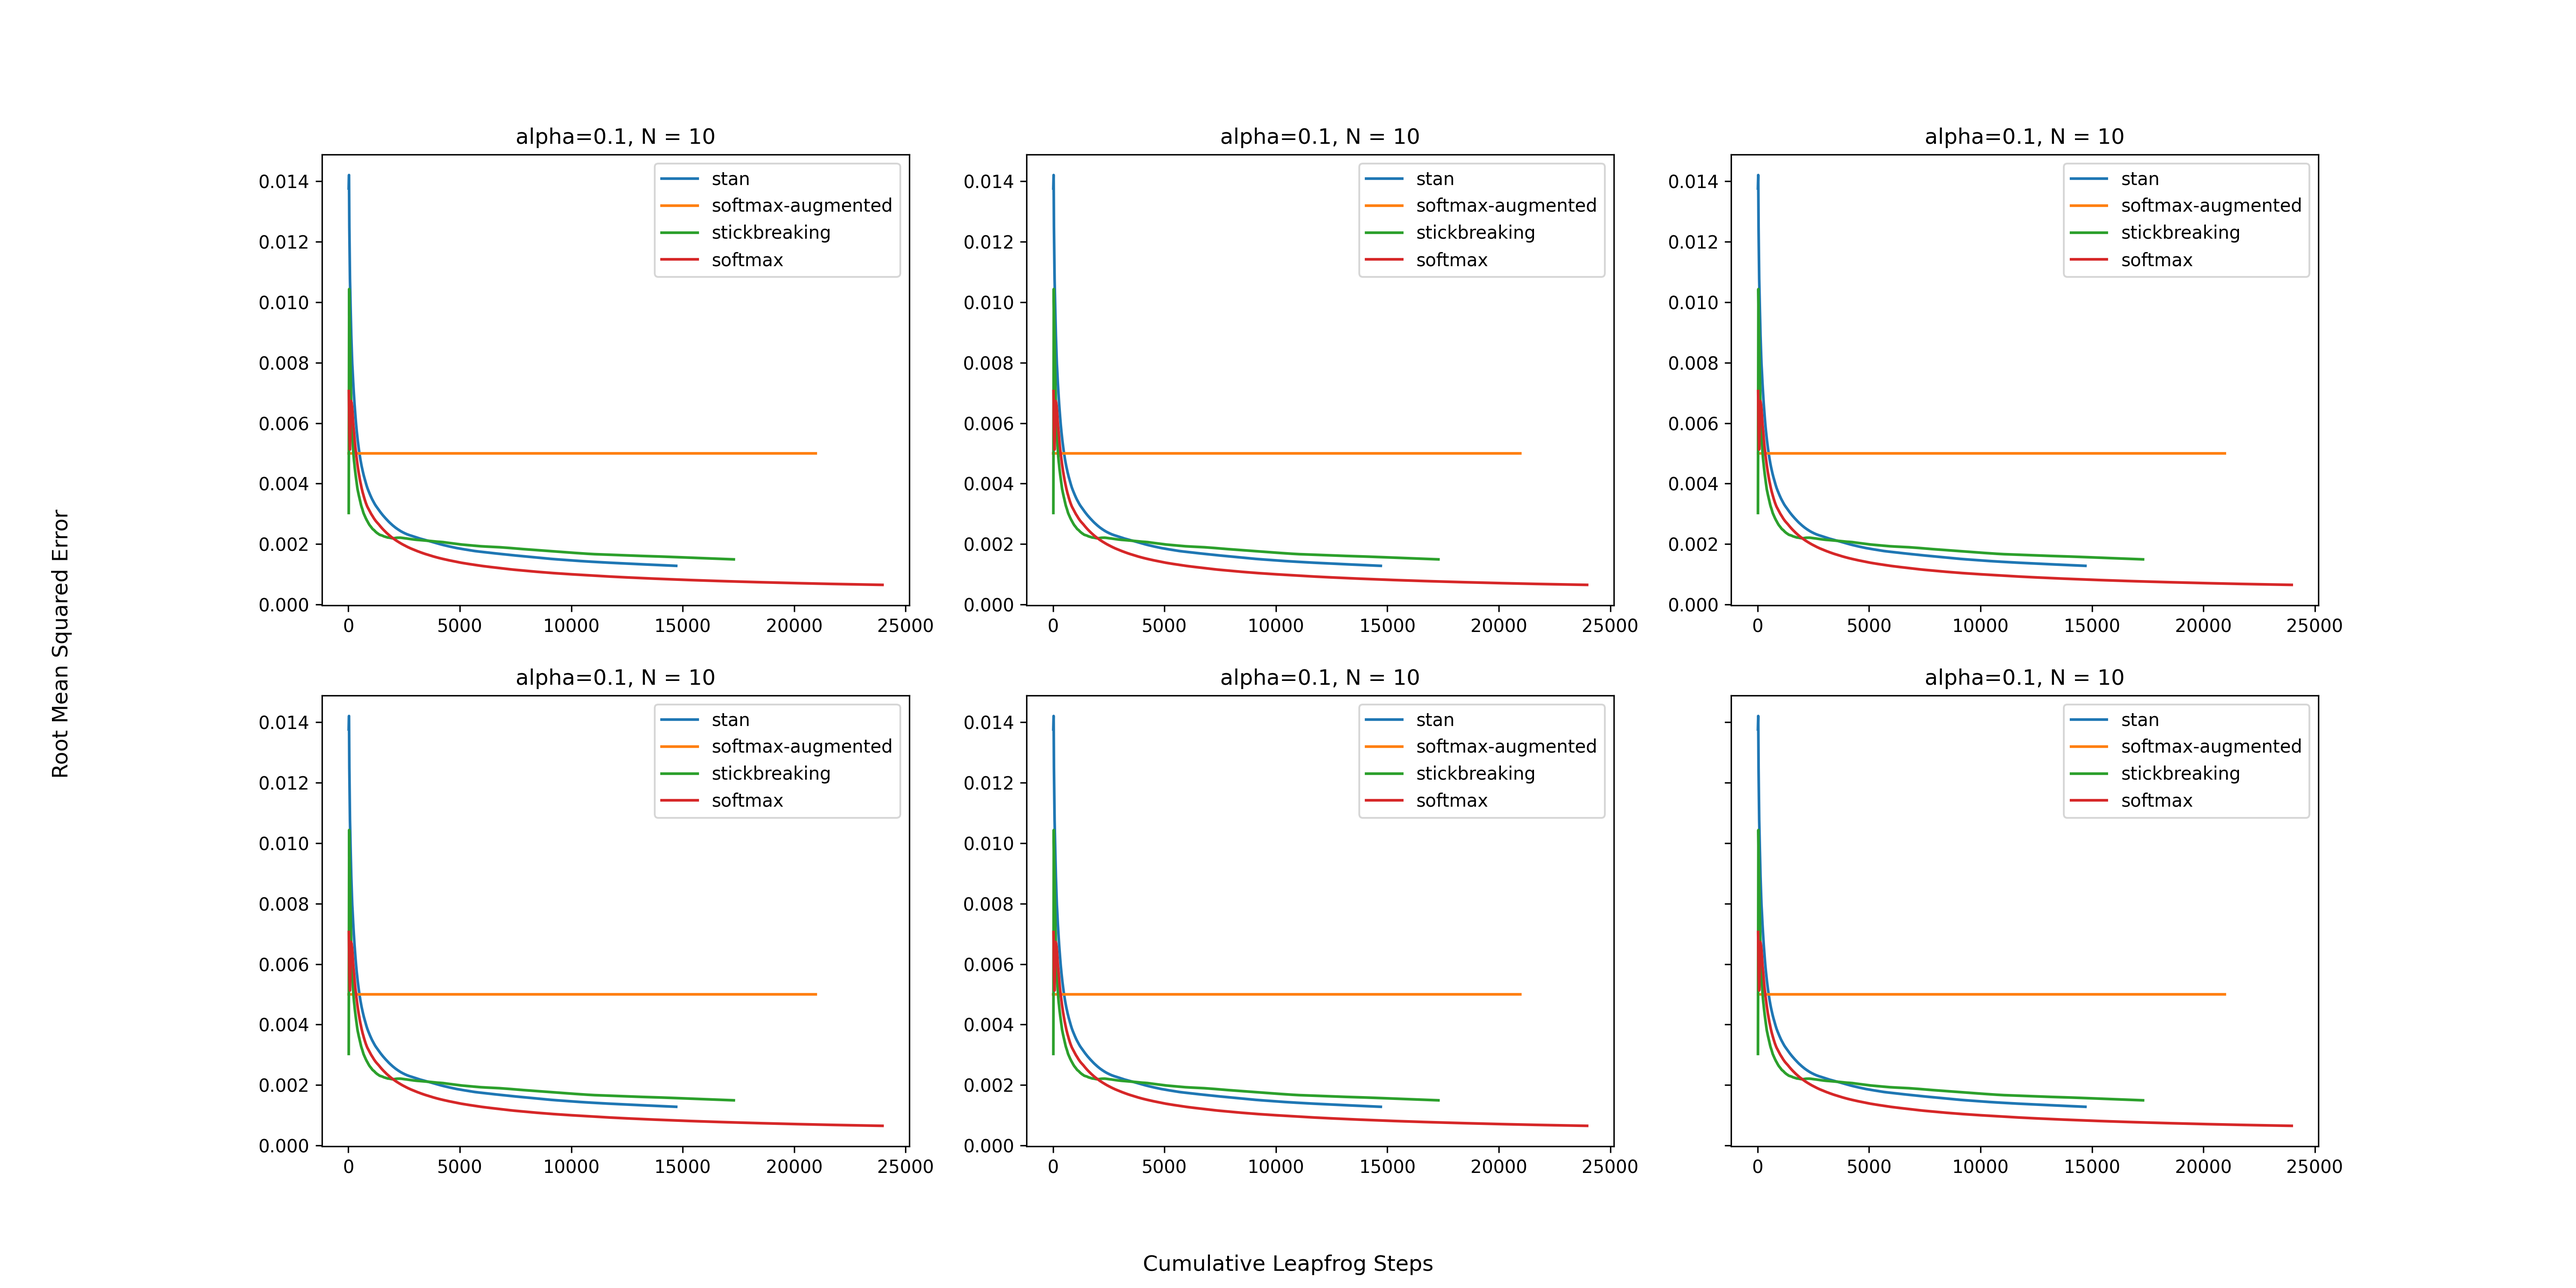
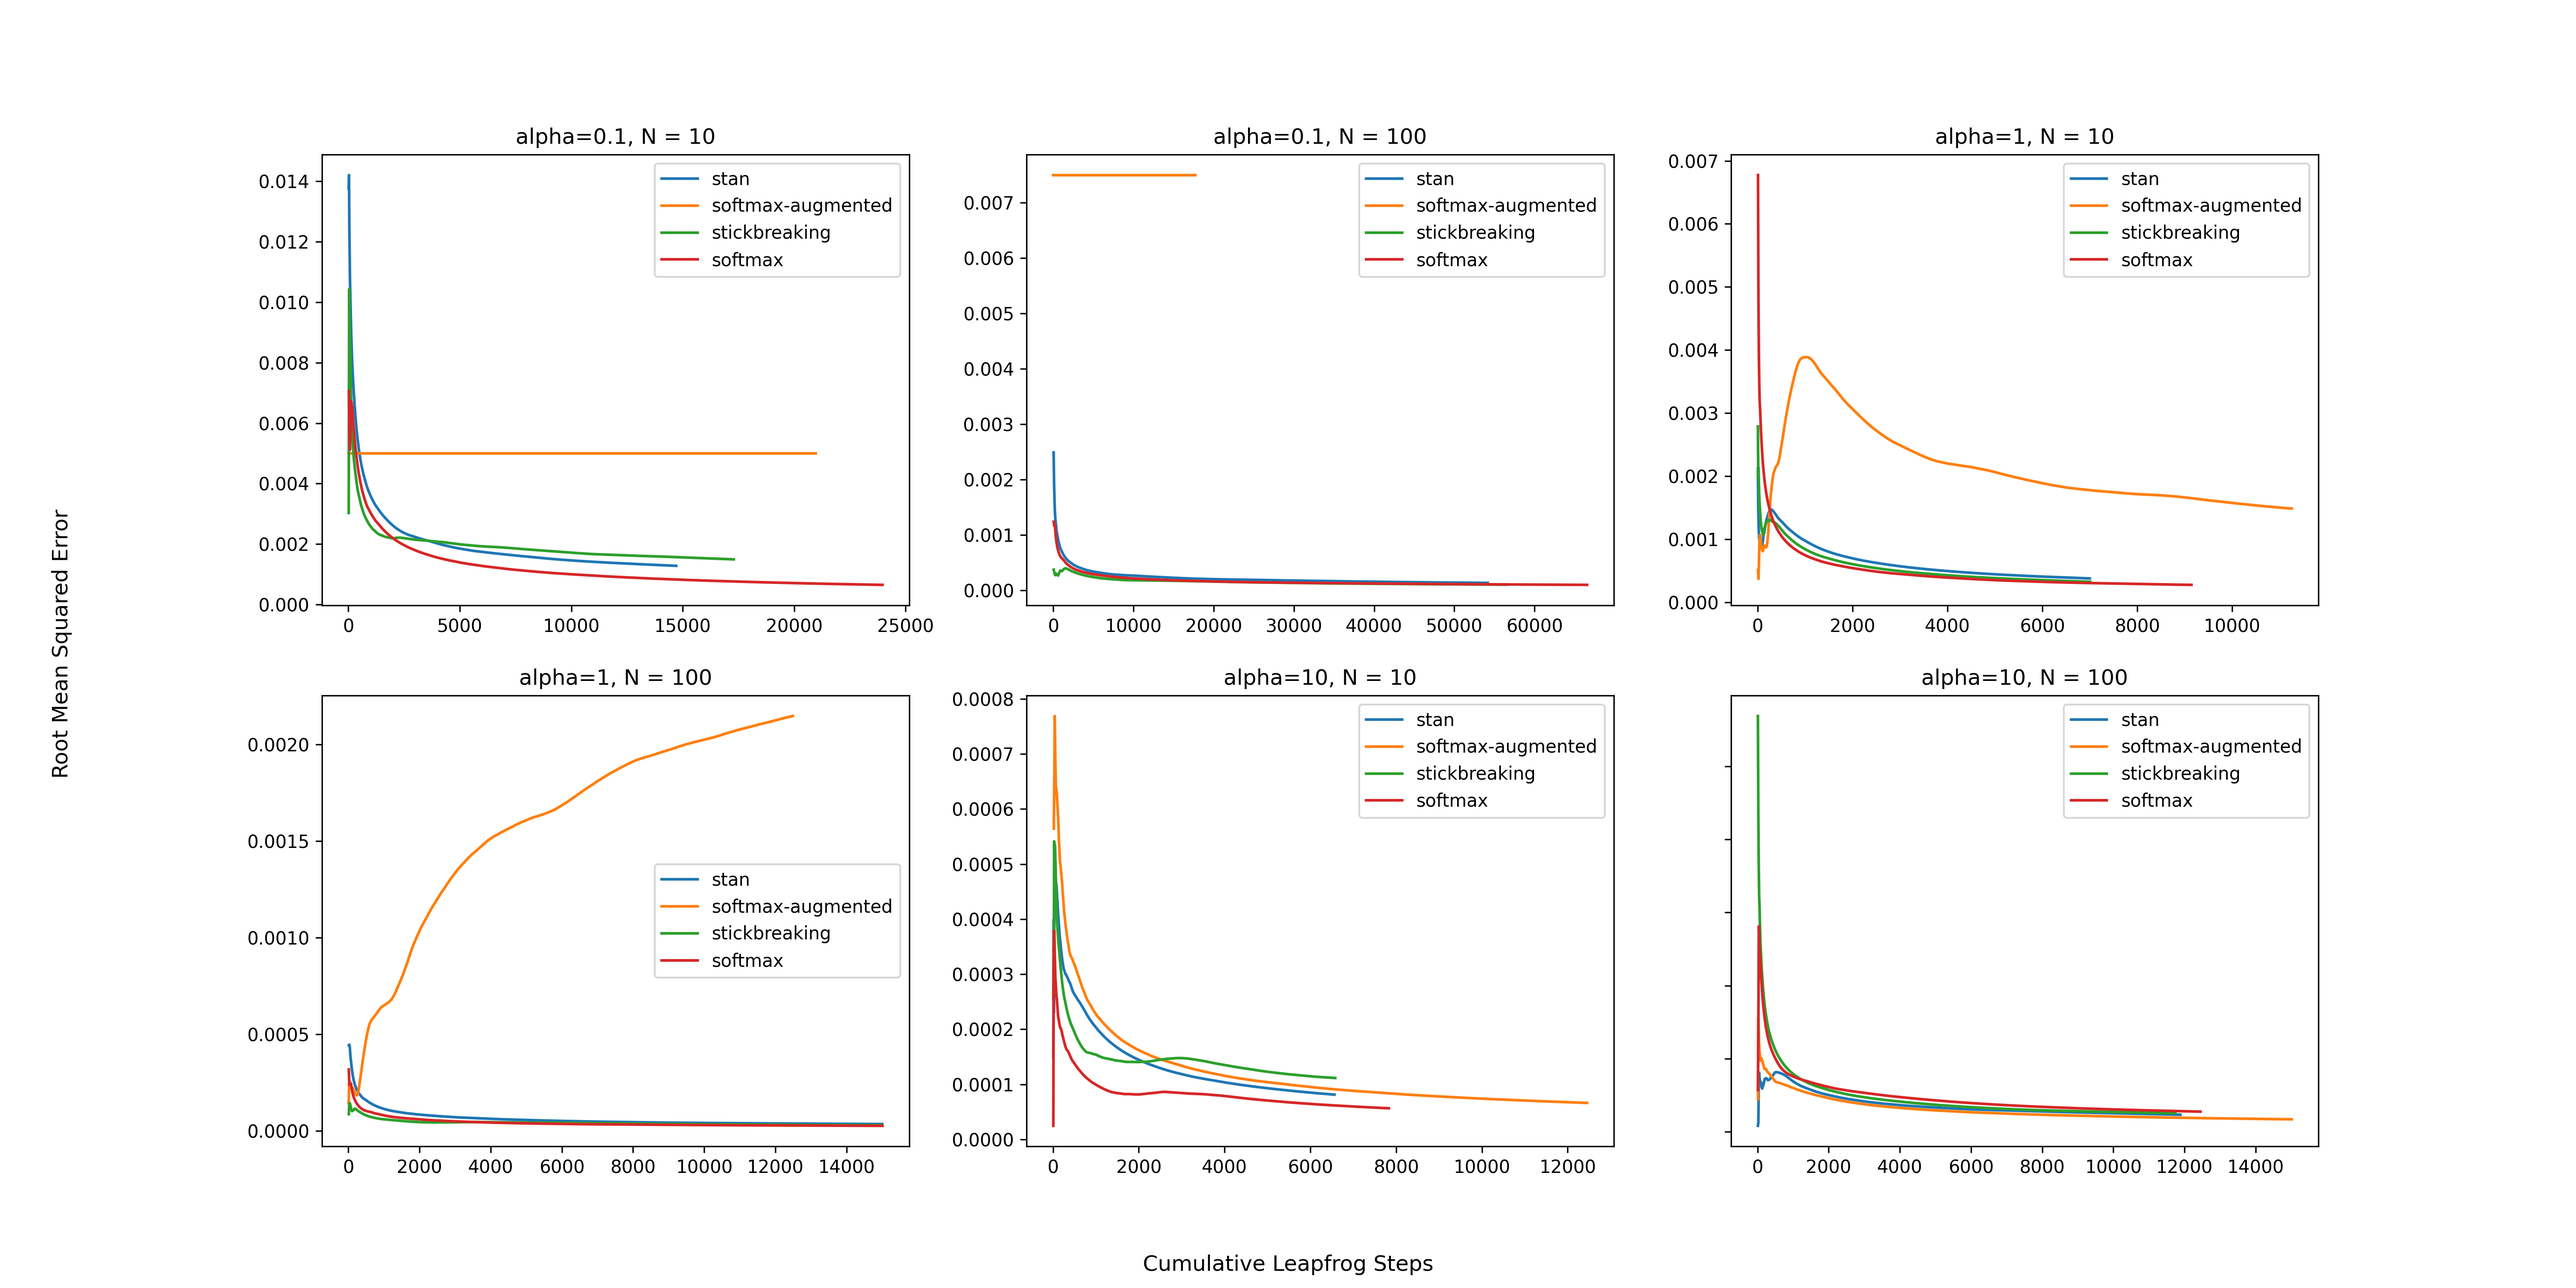
-

diff --git a/plot.py b/plot.py
@@ -28,11 +28,11 @@ fig.supylabel('Root Mean Squared Error')
 for ax, params in zip(axes.flatten() if len(parameters)>1 else [axes],  parameters):
     for transform in transforms:
         idata = sample(transform_category=transform_category, transform=transform,
-            evaluating_model='dirichlet_symmetric', parameters=parameters,
+            evaluating_model='dirichlet_symmetric', parameters=[params],
             auto_eval_all_params=False, n_iter = 1000,  n_chains = 4, n_repeat=100,
                                     show_progress = True, resample=False,return_idata=True)
-        alpha = parameters[0]['alpha']
-        N = parameters[0]['N']
+        alpha = params['alpha']
+        N = params['N']
         true_x = [a/sum(alpha) for a in alpha]
         x, y = rmse_leapfrog(idata=idata, true_var=true_x, var_name='x', var_dim=0)
         ax.plot(x,y, label = str(transform))
